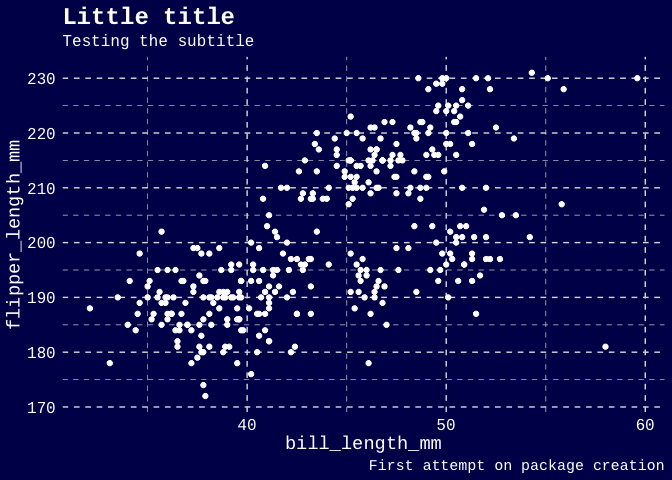
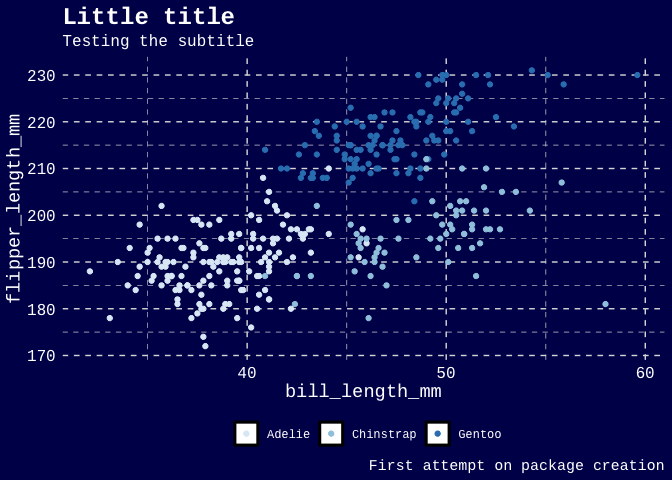
1. New palette for eafit - 2. Solving bug with lighter theme - 3. scale palette - 4. README update

Changed region(s): [[0.0, 0.125, 0.9688, 0.9375], [0.9375, 0.8438, 0.9688, 0.9062], [0.0312, 0.8438, 0.0938, 0.875]]

diff --git a/README.md b/README.md
@@ -25,7 +25,7 @@ You can install the development version from
 [GitHub](https://github.com/) with:
 
 ``` r
-# install.packages("devtools")
+install.packages("devtools")
 devtools::install_github("camilogarciabotero/eafithemer")
 ```
 
@@ -40,13 +40,17 @@ library(eafithemer)
 
 palmerpenguins::penguins %>%
     ggplot2::ggplot(aes(bill_length_mm, flipper_length_mm)) +
-  geom_point() +
+  geom_point(aes(color = species)) +
   labs(
     title = "Little title",
     subtitle = "Testing the subtitle",
     caption = "First attempt on package creation"
   ) +
-  eafithemer::theme_eafit_light()
+  eafithemer::theme_eafit_light() +
+  eafithemer::scale_color_eafit() +
+  theme(
+    legend.title = element_blank()
+  )
 ```
 
 <img src="man/figures/README-theme-light-1.png" width="100%" />
@@ -58,16 +62,28 @@ library(eafithemer)
 
 palmerpenguins::penguins %>%
     ggplot2::ggplot(aes(bill_length_mm, flipper_length_mm)) +
-  geom_point(color = "white") +
+  geom_point(aes(color = species)) +
   labs(
     title = "Little title",
     subtitle = "Testing the subtitle",
     caption = "First attempt on package creation"
   ) +
-  eafithemer::theme_eafit_dark()
+  eafithemer::theme_eafit_dark() +
+  scale_color_brewer() +
+  theme(
+    legend.title = element_blank()
+  )
 ```
 
 <img src="man/figures/README-theme-dark-1.png" width="100%" />
+
+# A glance into EAFIT palette
+
+``` r
+scales::show_col(eafit_palette)
+```
+
+<img src="man/figures/README-palette-1.png" width="100%" />
 
 # Credits
 
